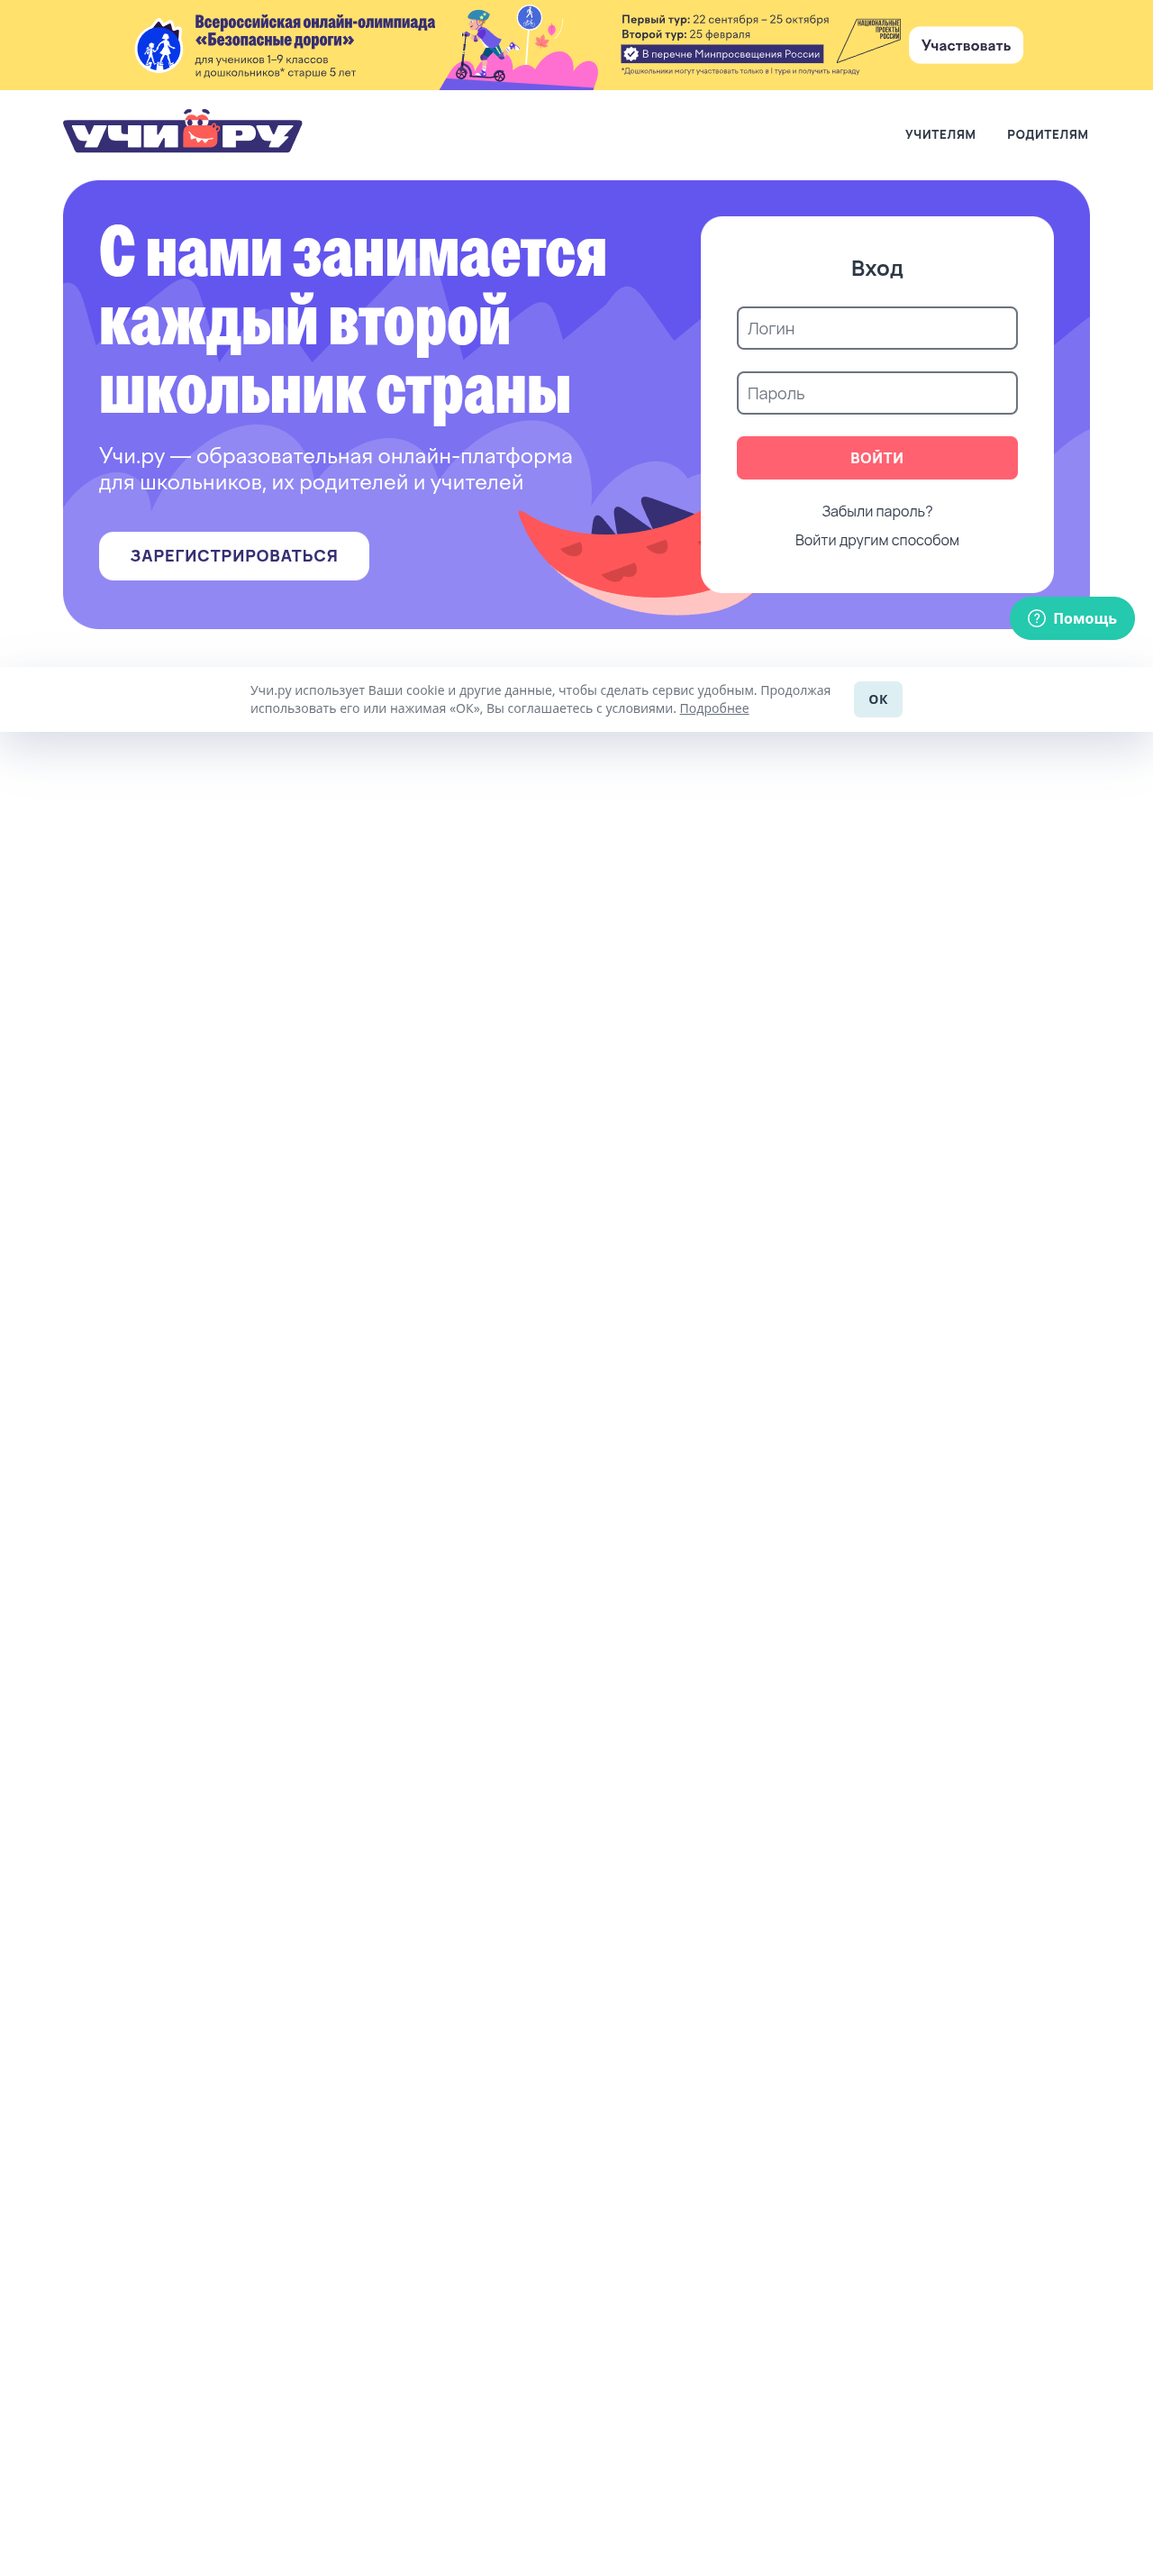
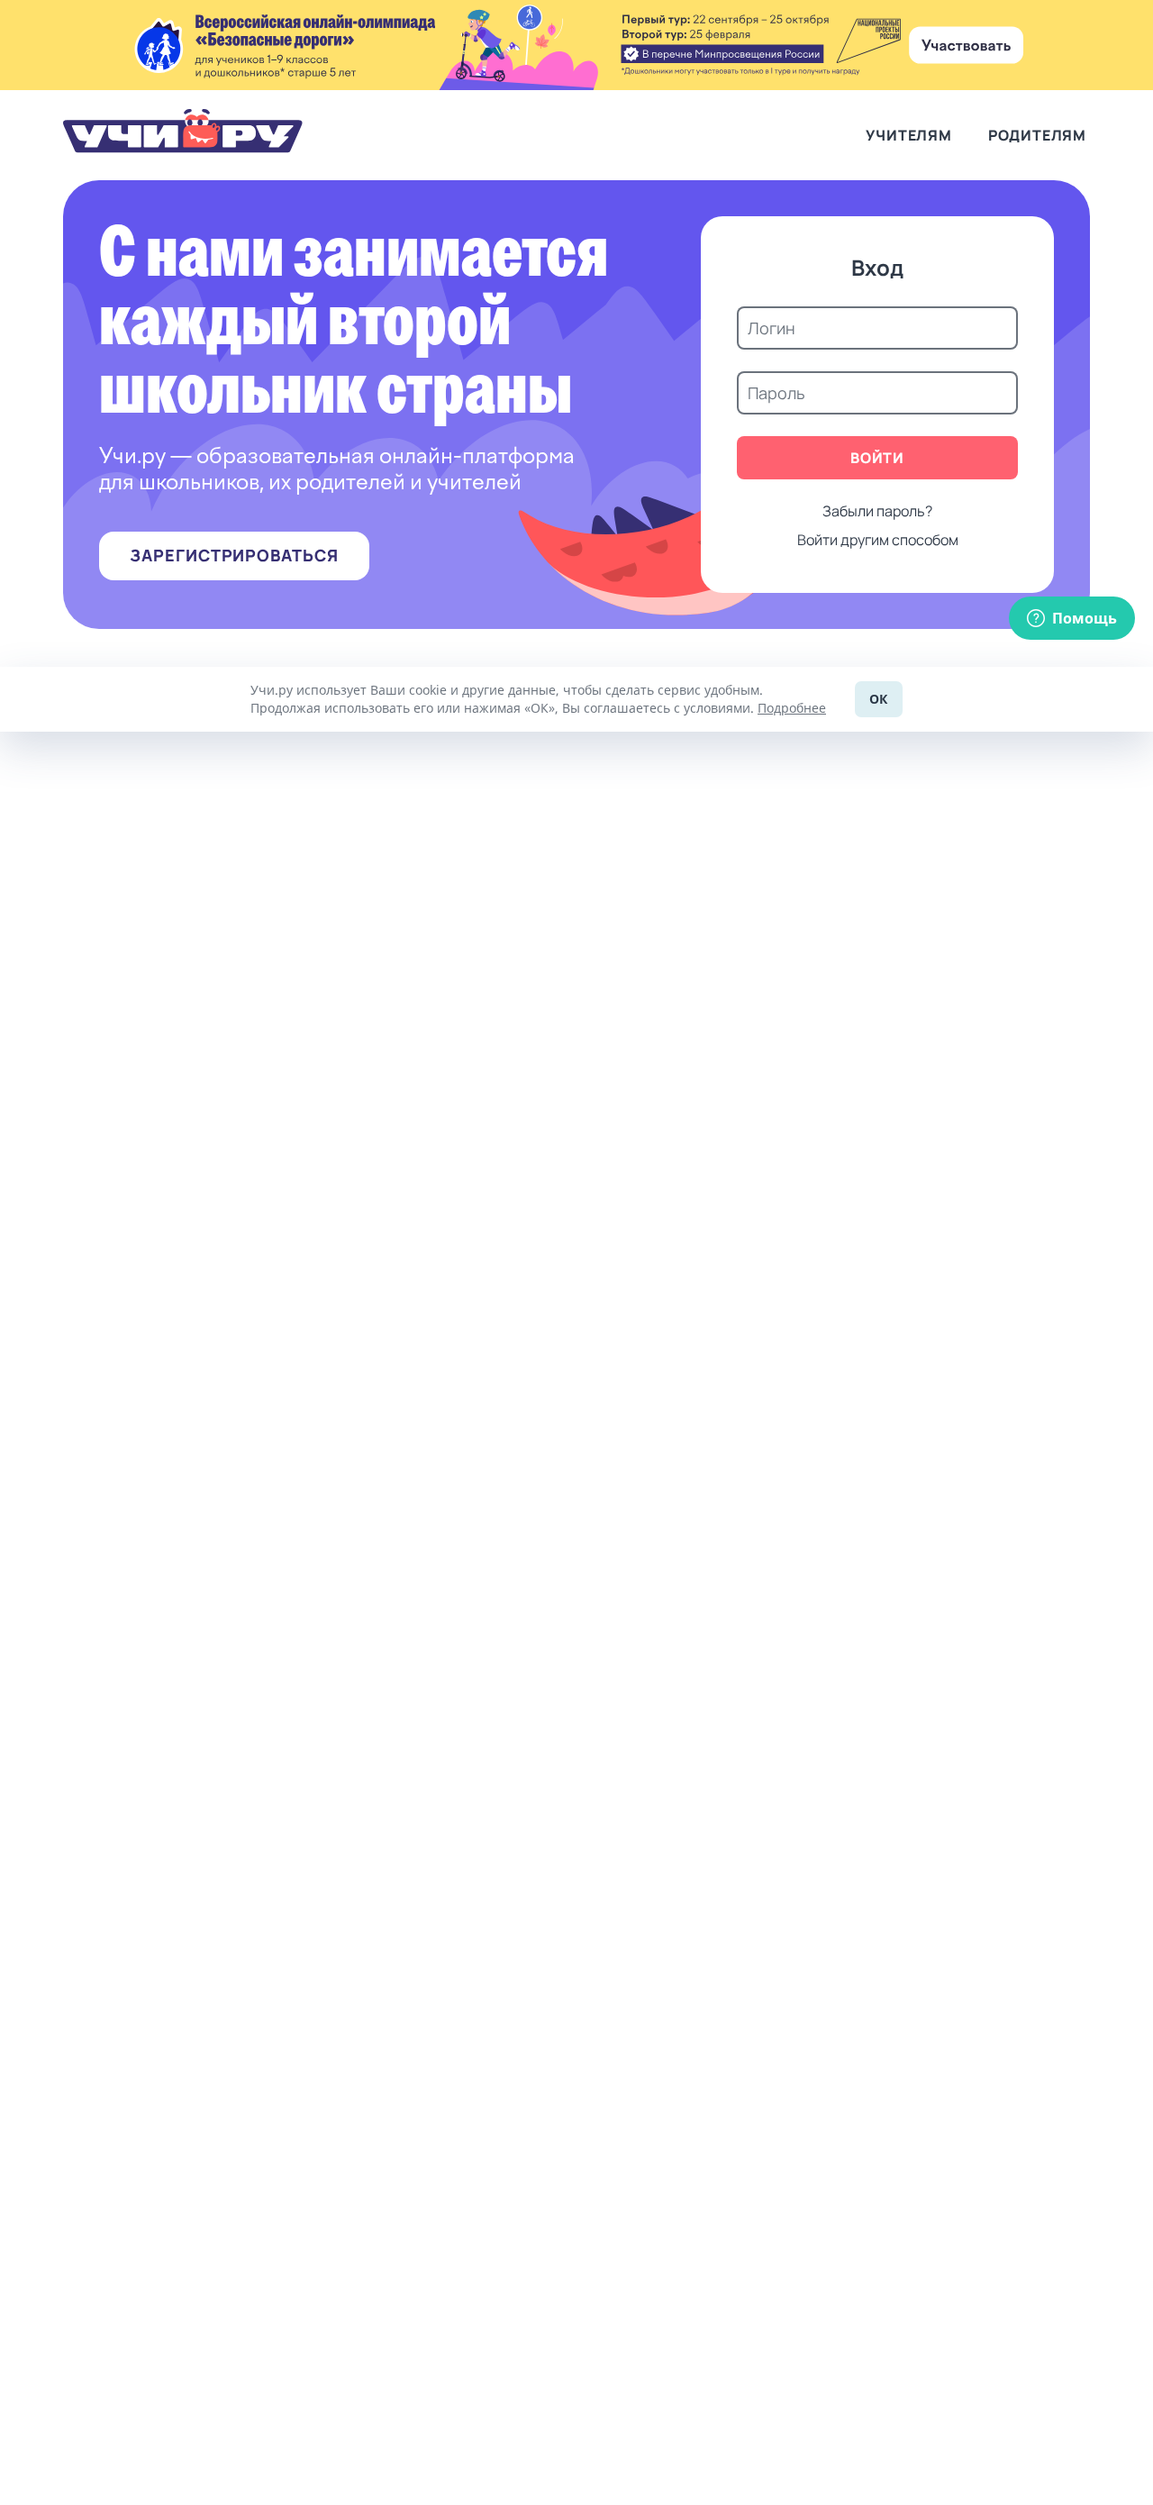
delete debuging

Changed region(s): [[0.0312, 0.0, 1.0, 0.3094], [0.375, 0.0, 0.4688, 0.0309]]

diff --git a/tests/widget.spec.ts b/tests/widget.spec.ts
@@ -10,10 +10,6 @@ test.describe('Uchi.ru widget ', () => {
     // open uchi.ru main page
     await page.goto('/');
 
-    console.log('URL:', page.url());
-    console.log('кнопок виджета:', await page.locator('[data-test="openWidget"]').count());
-    await page.screenshot({ path: 'debug.png', fullPage: true });
-
     // close cookies popup
     await page.click('._UCHI_COOKIE__button');
   });
@@ -26,7 +22,7 @@ test.describe('Uchi.ru widget ', () => {
 
   test('closes', async ({page}) => {
     await widgetPage.openWidget();
-    
+
     await widgetPage.closeWidget();
 
     await expect(widgetPage.getWidgetBody()).not.toBeVisible();
